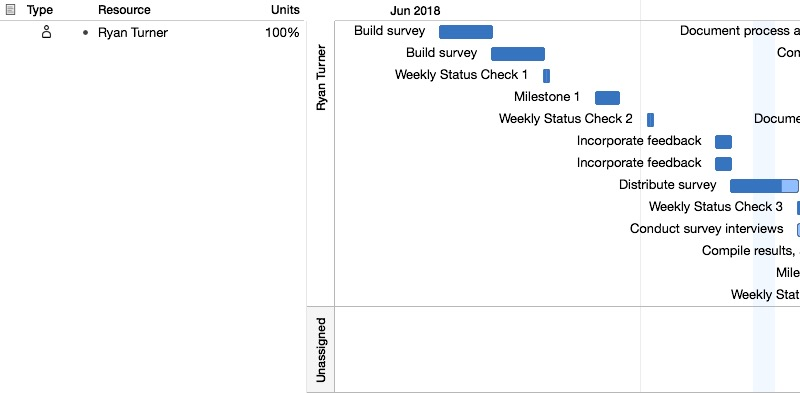
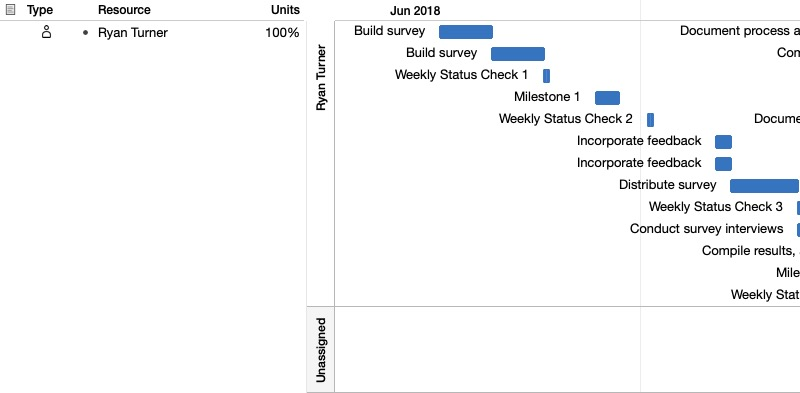
Updated project plan

diff --git a/coursework/project-plan/task.html b/coursework/project-plan/task.html
@@ -53,7 +53,7 @@
                 <td>6/24/18, 12:00 PM</td>
                 <td>7/22/18, 10:30 AM</td>
                 <td>58.5h</td>
-                <td>60%</td>
+                <td>100%</td>
                 <td></td>
                 <td class="total"></td>
                 <td></td>
@@ -121,7 +121,7 @@
                 <td>7/15/18, 12:00 PM</td>
                 <td>7/15/18, 12:30 PM</td>
                 <td>0.5h</td>
-                <td>0%</td>
+                <td>100%</td>
                 <td>1.3</td>
                 <td class="total"></td>
                 <td>Ryan Turner</td>
@@ -138,7 +138,7 @@
                 <td>7/22/18, 10:00 AM</td>
                 <td>7/22/18, 10:30 AM</td>
                 <td>0.5h</td>
-                <td>0%</td>
+                <td>100%</td>
                 <td>1.4, 2.2</td>
                 <td class="total"></td>
                 <td>Ryan Turner</td>
@@ -155,7 +155,7 @@
                 <td>6/27/18, 7:00 PM</td>
                 <td>7/15/18, 11:00 AM</td>
                 <td>37h</td>
-                <td>60%</td>
+                <td>100%</td>
                 <td></td>
                 <td class="total"></td>
                 <td></td>
@@ -189,7 +189,7 @@
                 <td>7/12/18, 9:00 PM</td>
                 <td>7/15/18, 11:00 AM</td>
                 <td>2h</td>
-                <td>0%</td>
+                <td>100%</td>
                 <td>1.3, 5.3</td>
                 <td class="total"></td>
                 <td>Ryan Turner</td>
@@ -206,7 +206,7 @@
                 <td>7/22/18, 10:00 AM</td>
                 <td>7/29/18, 12:00 PM</td>
                 <td>17h</td>
-                <td>0%</td>
+                <td>19%</td>
                 <td></td>
                 <td class="total"></td>
                 <td></td>
@@ -223,7 +223,7 @@
                 <td>7/26/18, 7:00 PM</td>
                 <td>7/29/18, 12:00 PM</td>
                 <td>5h</td>
-                <td>0%</td>
+                <td>20%</td>
                 <td>3.2</td>
                 <td class="total"></td>
                 <td>Ryan Turner</td>
@@ -240,7 +240,7 @@
                 <td>7/22/18, 10:00 AM</td>
                 <td>7/22/18, 1:00 PM</td>
                 <td>3h</td>
-                <td>0%</td>
+                <td>50%</td>
                 <td>4.5FF, 5.5FF</td>
                 <td class="total"></td>
                 <td>Ryan Turner</td>
@@ -274,7 +274,7 @@
                 <td>6/18/18, 7:00 PM</td>
                 <td>7/22/18, 1:00 PM</td>
                 <td>75h</td>
-                <td>58%</td>
+                <td>94%</td>
                 <td></td>
                 <td class="total"></td>
                 <td></td>
@@ -325,7 +325,7 @@
                 <td>7/5/18, 7:00 PM</td>
                 <td>7/9/18, 10:00 PM</td>
                 <td>9h</td>
-                <td>75%</td>
+                <td>100%</td>
                 <td>4.2</td>
                 <td class="total"></td>
                 <td>Ryan Turner</td>
@@ -342,7 +342,7 @@
                 <td>7/18/18, 7:00 PM</td>
                 <td>7/19/18, 10:00 PM</td>
                 <td>6h</td>
-                <td>0%</td>
+                <td>100%</td>
                 <td>4.3</td>
                 <td class="total"></td>
                 <td>Ryan Turner</td>
@@ -359,7 +359,7 @@
                 <td>7/22/18, 10:00 AM</td>
                 <td>7/22/18, 1:00 PM</td>
                 <td>3h</td>
-                <td>0%</td>
+                <td>50%</td>
                 <td>4.4</td>
                 <td class="total"></td>
                 <td>Ryan Turner</td>
@@ -376,7 +376,7 @@
                 <td>6/20/18, 8:00 PM</td>
                 <td>7/17/18, 9:00 PM</td>
                 <td>58h</td>
-                <td>35%</td>
+                <td>38%</td>
                 <td></td>
                 <td class="total"></td>
                 <td></td>
@@ -427,7 +427,7 @@
                 <td>7/10/18, 7:00 PM</td>
                 <td>7/12/18, 9:00 PM</td>
                 <td>8h</td>
-                <td>0%</td>
+                <td>10%</td>
                 <td>4.3, 5.2</td>
                 <td class="total"></td>
                 <td>Ryan Turner</td>
@@ -479,6 +479,6 @@
         </div>
         </div>
         <div id="footer">
-	        <p class="exported">Exported 7/8/18</p>
+	        <p class="exported">Exported 7/24/18</p>
         </div>
 </body>

diff --git a/coursework/project-plan/resource.html b/coursework/project-plan/resource.html
@@ -45,7 +45,7 @@
                 <td>6/18/18, 7:00 PM</td>
                 <td>7/29/18, 12:00 PM</td>
                 <td>73.5h</td>
-                <td>40%</td>
+                <td>62%</td>
                 <td></td>
             </tr>
             
@@ -117,7 +117,7 @@
                 <td>7/5/18, 7:00 PM</td>
                 <td>7/9/18, 10:00 PM</td>
                 <td>9h</td>
-                <td>75%</td>
+                <td>100%</td>
                 <td></td>
             </tr>
             
@@ -135,7 +135,7 @@
                 <td>7/10/18, 7:00 PM</td>
                 <td>7/12/18, 9:00 PM</td>
                 <td>8h</td>
-                <td>0%</td>
+                <td>10%</td>
                 <td></td>
             </tr>
             
@@ -144,7 +144,7 @@
                 <td>7/12/18, 9:00 PM</td>
                 <td>7/15/18, 11:00 AM</td>
                 <td>2h</td>
-                <td>0%</td>
+                <td>100%</td>
                 <td></td>
             </tr>
             
@@ -162,7 +162,7 @@
                 <td>7/15/18, 12:00 PM</td>
                 <td>7/15/18, 12:30 PM</td>
                 <td>0.5h</td>
-                <td>0%</td>
+                <td>100%</td>
                 <td></td>
             </tr>
             
@@ -180,7 +180,7 @@
                 <td>7/18/18, 7:00 PM</td>
                 <td>7/19/18, 10:00 PM</td>
                 <td>6h</td>
-                <td>0%</td>
+                <td>100%</td>
                 <td></td>
             </tr>
             
@@ -189,7 +189,7 @@
                 <td>7/22/18, 10:00 AM</td>
                 <td>7/22/18, 10:30 AM</td>
                 <td>0.5h</td>
-                <td>0%</td>
+                <td>100%</td>
                 <td></td>
             </tr>
             
@@ -198,7 +198,7 @@
                 <td>7/22/18, 10:00 AM</td>
                 <td>7/22/18, 1:00 PM</td>
                 <td>3h</td>
-                <td>0%</td>
+                <td>50%</td>
                 <td></td>
             </tr>
             
@@ -207,7 +207,7 @@
                 <td>7/22/18, 10:00 AM</td>
                 <td>7/22/18, 1:00 PM</td>
                 <td>3h</td>
-                <td>0%</td>
+                <td>50%</td>
                 <td></td>
             </tr>
             
@@ -225,7 +225,7 @@
                 <td>7/26/18, 7:00 PM</td>
                 <td>7/29/18, 12:00 PM</td>
                 <td>5h</td>
-                <td>0%</td>
+                <td>20%</td>
                 <td></td>
             </tr>
             
@@ -237,6 +237,6 @@
         </div>
         </div>
         <div id="footer">
-	        <p class="exported">Exported 7/8/18</p>
+	        <p class="exported">Exported 7/24/18</p>
         </div>
 </body>

diff --git a/coursework/project-plan/gantt.html b/coursework/project-plan/gantt.html
@@ -31,17 +31,17 @@
 	       
 <table border="0" cellspacing="0" cellpadding="0">
 <tr>
-	<td><img src="include/gantt0,0.jpg?nocacheTag=1982599038" border=0/></td>
-	<td><img src="include/gantt1,0.jpg?nocacheTag=235070736" border=0/></td>
+	<td><img src="include/gantt0,0.jpg?nocacheTag=367579470" border=0/></td>
+	<td><img src="include/gantt1,0.jpg?nocacheTag=-1069364005" border=0/></td>
 </tr>
 <tr>
-	<td><img src="include/gantt0,1.jpg?nocacheTag=77095191" border=0/></td>
-	<td><img src="include/gantt1,1.jpg?nocacheTag=-323387005" border=0/></td>
+	<td><img src="include/gantt0,1.jpg?nocacheTag=1185121874" border=0/></td>
+	<td><img src="include/gantt1,1.jpg?nocacheTag=-710121970" border=0/></td>
 </tr>
 </table>
         </div>
         </div>
         <div id="footer">
-	        <p class="exported">Exported 7/8/18</p>
+	        <p class="exported">Exported 7/24/18</p>
         </div>
 </body>

diff --git a/coursework/project-plan/index.html b/coursework/project-plan/index.html
@@ -34,8 +34,8 @@
 	</div>
 	<div id="completed">
 		<p class="label">Completion</p>
-		<p class="number">40%</p>
-		<div id="bar"><div id="fill" style="width:40%;"></div></div>
+		<p class="number">62%</p>
+		<div id="bar"><div id="fill" style="width:62%;"></div></div>
 		<p>Start: 6/18/18, 12:00 AM</p>
 		<p>End Date: 7/29/18, 12:00 PM</p>
 		<p>Variance: 0h</p>
@@ -59,7 +59,7 @@
                 <td>6/18/18, 7:00 PM</td>
                 <td>7/29/18, 12:00 PM</td>
                 <td>73.5h</td>
-                <td>40%</td>
+                <td>62%</td>
                 <td></td>
             </tr>    
             
@@ -110,6 +110,6 @@
         </div>
         </div>
         <div id="footer">
-	        <p class="exported">Exported 7/8/18</p>
+	        <p class="exported">Exported 7/24/18</p>
         </div>
 </body>

diff --git a/coursework/project-plan/eva.html b/coursework/project-plan/eva.html
@@ -479,6 +479,6 @@
        </div>
         </div>
         <div id="footer">
-	        <p class="exported">Exported 7/8/18</p>
+	        <p class="exported">Exported 7/24/18</p>
         </div>
 </body>

diff --git a/coursework/project-plan/timeline.html b/coursework/project-plan/timeline.html
@@ -38,6 +38,6 @@
          </div>
         </div>
         <div id="footer">
-	        <p class="exported">Exported 7/8/18</p>
+	        <p class="exported">Exported 7/24/18</p>
         </div>
 </body>

diff --git a/coursework/project-plan/montecarlo.html b/coursework/project-plan/montecarlo.html
@@ -60,6 +60,6 @@
         </div>
         </div>
         <div id="footer">
-	        <p class="exported">Exported 7/8/18</p>
+	        <p class="exported">Exported 7/24/18</p>
         </div>
 </body>
